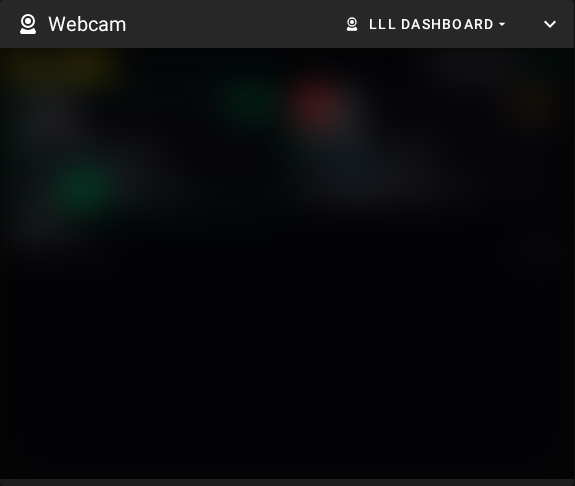
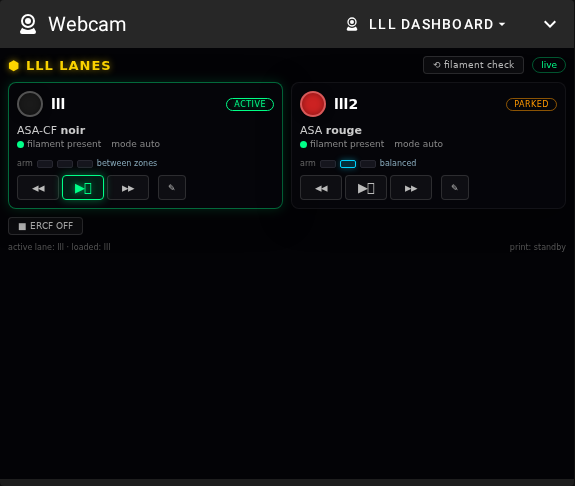
docs: unblurred first panel screenshot (iframe dashboard, no personal data)

diff --git a/FORK_MULTIWEBCAM.md b/FORK_MULTIWEBCAM.md
@@ -10,11 +10,11 @@ This feature has been requested upstream since 2023
 [#758](https://github.com/mainsail-crew/mainsail/issues/758)) but was never implemented.
 
 <p align="center">
-  <img src="docs/fork/panel1.png" width="49%" alt="Webcam panel 1 showing its own camera">
+  <img src="docs/fork/panel1.png" width="49%" alt="Webcam panel 1 showing its own source, here an iframe dashboard">
   <img src="docs/fork/panel2.png" width="49%" alt="Webcam panel 2 showing another camera">
 </p>
 
-*(camera streams are blurred in all screenshots — your dashboard will show the live feeds)*
+*(live camera streams are blurred in the screenshots that show them — your dashboard shows the real feeds)*
 
 ---
 

diff --git a/README.md b/README.md
@@ -12,7 +12,7 @@
 </p>
 
 <p align="center">
-  <img src="docs/fork/panel1.png" width="45%" alt="Mainsail dashboard: first webcam panel showing its own Klipper camera">
+  <img src="docs/fork/panel1.png" width="45%" alt="Mainsail dashboard: first webcam panel showing its own source, here an iframe dashboard">
   <img src="docs/fork/panel2.png" width="45%" alt="Mainsail dashboard: second independent webcam panel showing another camera">
 </p>
 
